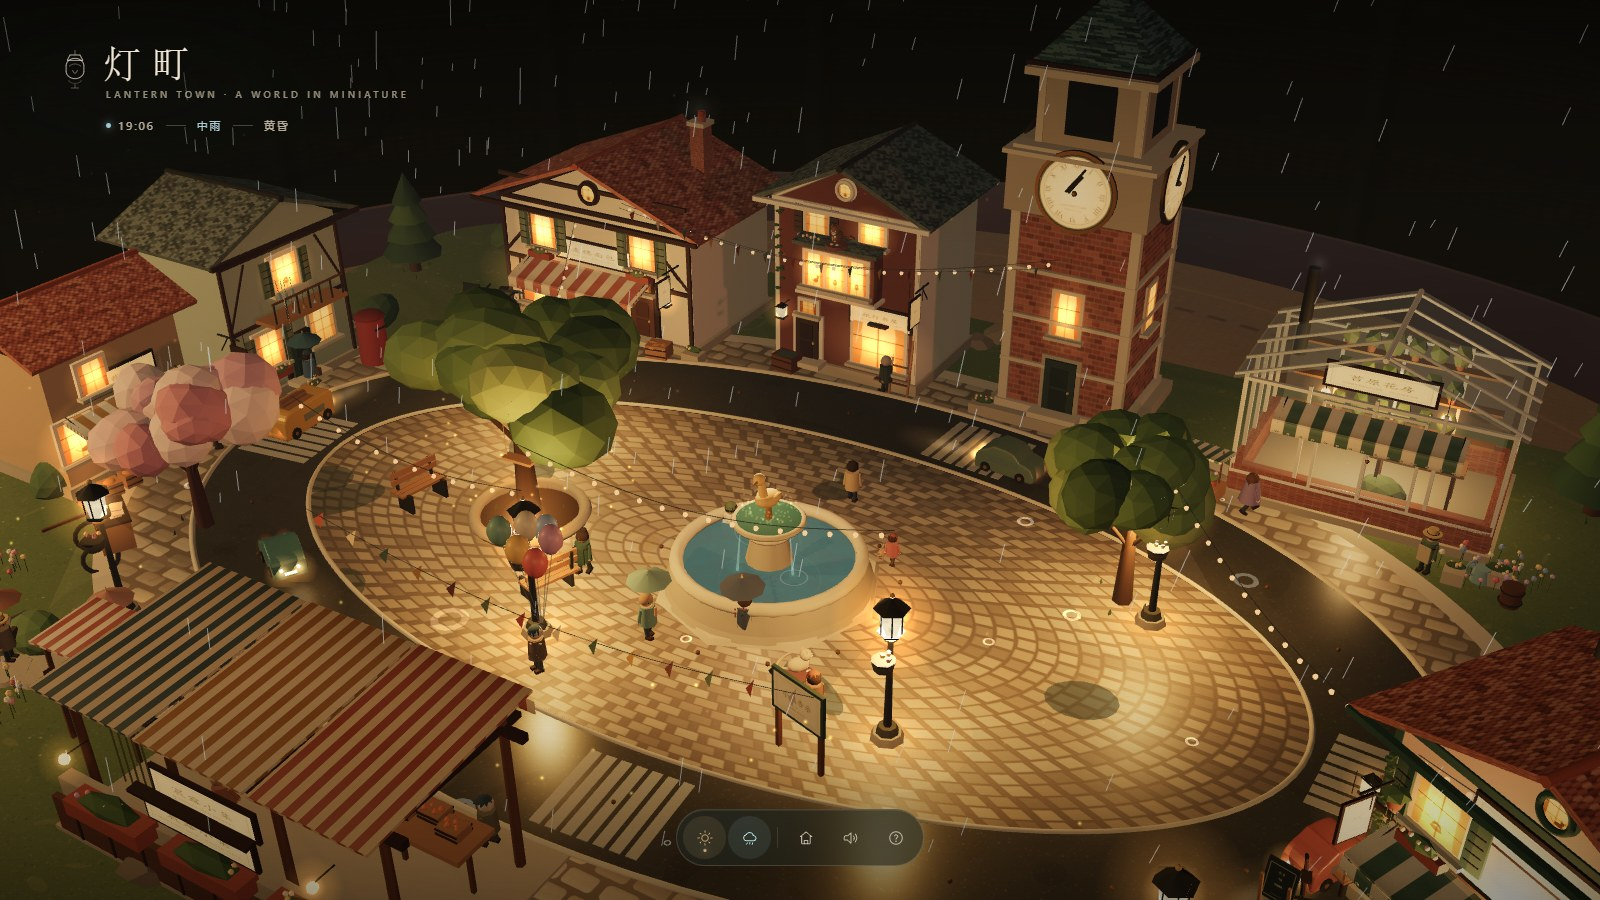
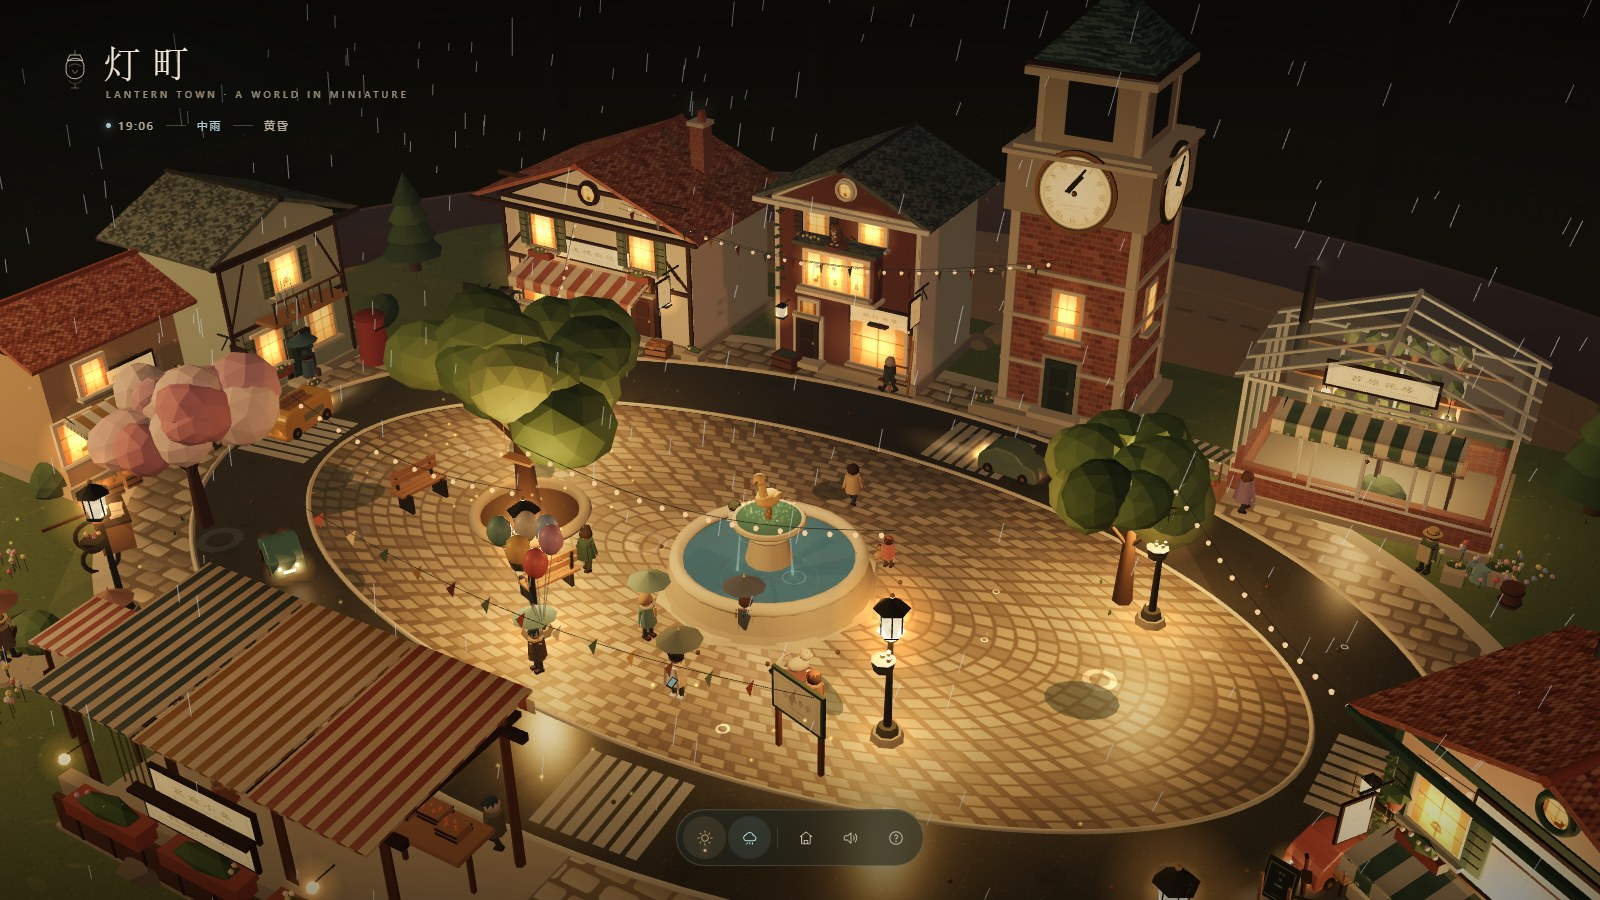
Update Lantern Town scene with new resident interaction and screenshots

diff --git a/index.html b/index.html
@@ -10,7 +10,7 @@
 <meta property="og:locale" content="zh_CN">
 <meta property="og:site_name" content="灯町 · Lantern Town">
 <meta property="og:title" content="灯町 · Lantern Town — 桌面上的小镇">
-<meta property="og:description" content="一座会自己生活 3D 微缩小镇：白天有人出门，傍晚窗灯次第亮起，下雨时行人会躲到屋檐下。">
+<meta property="og:description" content="一座会自己生活的 3D 微缩小镇：白天有人出门，傍晚窗灯次第亮起，下雨时行人会躲到屋檐下。">
 <meta property="og:image" content="screenshots/dusk.jpg">
 <meta name="twitter:card" content="summary_large_image">
 <meta name="twitter:title" content="灯町 · Lantern Town">
@@ -538,7 +538,7 @@
       <div>
         <h3>每样东西都有一点脾气</h3>
         <p>点击喷泉、钟楼、面包房、花房、路灯、汽车、树、行人和窗子，会看到它们的小反应。把鼠标停在一处，它会告诉你那是什么。</p>
-        <div class="help-react"><span>喷泉许愿</span><span>钟楼打钟</span><span>和猫打招呼</span><span>点窗灯</span><span>向行人问好</span><span>按一声车喇叭</span><span>看鸭子</span><span>闻面包香</span></div>
+        <div class="help-react"><span>喷泉许愿</span><span>钟楼打钟</span><span>和猫打招呼</span><span>点窗灯</span><span>向行人问好</span><span>请刘应豪拍照</span><span>按一声车喇叭</span><span>看鸭子</span><span>闻面包香</span></div>
       </div>
     </div>
 
@@ -5327,6 +5327,23 @@ function buildPerson(cfg) {
   }
   torso.castShadow = true;
   g.add(torso);
+  if (cfg.openShirt) {
+    const shirtMat = stdMat(cfg.shirtColor || 0xf2eee5, { roughness: .92 });
+    const tee = new THREE.Mesh(new THREE.BoxGeometry(.138, .235, .028), shirtMat);
+    tee.position.set(0, .33, .102);
+    g.add(tee);
+    // 敞开的奶油色外套：两条门襟
+    for (const side of [-1, 1]) {
+      const lapel = new THREE.Mesh(new THREE.BoxGeometry(.034, .24, .026), coatMat);
+      lapel.position.set(side * .068, .335, .114);
+      lapel.rotation.z = side * .09;
+      g.add(lapel);
+    }
+    const collar = new THREE.Mesh(new THREE.BoxGeometry(.17, .025, .06), coatMat);
+    collar.position.set(0, .445, .035);
+    collar.rotation.x = -.08;
+    g.add(collar);
+  }
   if (style === 'apron') {
     const apron = new THREE.Mesh(new THREE.BoxGeometry(.16, .22, .018), stdMat(cfg.apronColor || 0xe7d8be, { roughness: .95 }));
     apron.position.set(0, .3, .107);
@@ -5380,11 +5397,47 @@ function buildPerson(cfg) {
     bun.position.set(0, .585, -.045);
     g.add(bun);
   }
+  if (cfg.wavyHair) {
+    // 几缕微卷的深色头发，向一侧梳开
+    const tufts = [
+      [.022, .582, .061, .058, .028, .026, -.10, .18, .12],
+      [-.038, .576, .052, .048, .024, .025, -.16, -.12, -.16],
+      [.066, .552, .018, .027, .048, .032, .05, .22, .20],
+      [-.062, .551, .012, .028, .043, .030, -.04, -.18, -.22],
+      [.006, .558, -.067, .056, .045, .026, .18, 0, .08],
+      [-.010, .589, .022, .036, .027, .038, .02, .4, -.15]
+    ];
+    for (const [x, y, z, sx, sy, sz, rx, ry, rz] of tufts) {
+      const tuft = new THREE.Mesh(new THREE.SphereGeometry(1, 6, 5), hairMat);
+      tuft.scale.set(sx, sy, sz);
+      tuft.position.set(x, y, z);
+      tuft.rotation.set(rx, ry, rz);
+      g.add(tuft);
+    }
+  }
   // 脸
   for (const sx of [-1, 1]) {
     const eye = new THREE.Mesh(new THREE.SphereGeometry(.0105, 5, 4), stdMat(0x262621, { roughness: .5 }));
     eye.position.set(sx * .025, .519, .064);
     g.add(eye);
+  }
+  // 细框眼镜
+  if (cfg.glasses) {
+    const frameMat = stdMat(0x655b4c, { roughness: .42, metalness: .35 });
+    for (const side of [-1, 1]) {
+      const rim = new THREE.Mesh(new THREE.TorusGeometry(.0178, .0026, 4, 14), frameMat);
+      rim.position.set(side * .026, .518, .074);
+      g.add(rim);
+      const temple = cylinderBetween(
+        new THREE.Vector3(side * .043, .52, .065),
+        new THREE.Vector3(side * .071, .512, .002),
+        .0019, frameMat, 4
+      );
+      g.add(temple);
+    }
+    const bridge = new THREE.Mesh(new THREE.BoxGeometry(.022, .0032, .005), frameMat);
+    bridge.position.set(0, .522, .075);
+    g.add(bridge);
   }
   // 帽子
   if (cfg.hat === 'straw') {
@@ -5435,6 +5488,32 @@ function buildPerson(cfg) {
     book.position.set(.13, .27, .06);
     book.rotation.z = .2;
     g.add(book);
+  }
+  if (cfg.phone) {
+    const phone = new THREE.Group();
+    phone.position.set(0, -.195, .075);
+    phone.rotation.set(-.55, .06, .1);
+    const bodyPhone = new THREE.Mesh(
+      new THREE.BoxGeometry(.072, .12, .014),
+      stdMat(0x26272a, { roughness: .32, metalness: .3 })
+    );
+    phone.add(bodyPhone);
+    const screen = new THREE.Mesh(
+      new THREE.PlaneGeometry(.055, .095),
+      new THREE.MeshBasicMaterial({ color: 0x7d9896, toneMapped: false })
+    );
+    screen.position.z = .008;
+    phone.add(screen);
+    const phoneGlow = new THREE.Mesh(
+      new THREE.PlaneGeometry(.15, .20),
+      new THREE.MeshBasicMaterial({
+        color: 0x9dbebc, transparent: true, opacity: .035, depthWrite: false,
+        blending: THREE.AdditiveBlending, toneMapped: false
+      })
+    );
+    phoneGlow.position.z = .011;
+    phone.add(phoneGlow);
+    armR.add(phone);
   }
   if (cfg.cane) {
     const cane = new THREE.Mesh(new THREE.CylinderGeometry(.012, .016, .52, 5), MAT.woodLight);
@@ -5783,6 +5862,23 @@ buildPerson({
   skin: 2, hair: 5, scarf: 0x8f6c5a, balloons: true, activeFrom: 8.0, activeTo: 20.8,
   lines: ['挑一个吧，今天的天色配橙色很好看。', '气球想去哪里，我从来不拦着。', '从前我给孙子买过一只，后来它飞到了云上。']
 });
+// 新来的住客刘应豪：深色微卷发、细框眼镜、白 T 恤和奶油色衬衫，口头禅是“神了”
+buildPerson({
+  name: '刘应豪', role: '新来的住客', stationary: { x: .62, z: 3.08, rot: .08 },
+  speed: 0, scale: 1.04,
+  coat: 0xcbb58f, shirtColor: 0xf7f4ec, openShirt: true,
+  style: 'coat', pants: 1,
+  skin: 0, hair: 4, glasses: true, wavyHair: true, phone: true,
+  shoeMat: stdMat(0xded8cb, { roughness: .78 }),
+  hasUmbrella: true, umbrella: 0x6e7b72,
+  activeFrom: 7.5, activeTo: 25, nightOwl: true,
+  lines: [
+    '神了，刚搬来三天，已经会听钟声认时间了。',
+    '手机里存了十七张猫，还有一张晚霞。神了。',
+    '神了，这条街的屋檐，照片里根本拍不出来。',
+    '我就出来走一圈，神了，在喷泉边站了半小时。'
+  ]
+});
 
 // 固定人物的初始位置，避免贴着物台穿模
 {
@@ -5813,6 +5909,12 @@ buildPerson({
   if (balloonMan) {
     balloonMan.armR.rotation.x = -.36;
     balloonMan.armR.rotation.z = -.28;
+  }
+  const newcomer = people.find(p => p.name === '刘应豪');
+  if (newcomer) {
+    newcomer.armR.rotation.x = -1.18;
+    newcomer.armR.rotation.z = -.22;
+    newcomer.armL.rotation.x = -.12;
   }
 }
 
@@ -5867,6 +5969,10 @@ function personIdlePose(p, dt, t) {
     } else if (p.name === '气球爷爷') {
       p.armR.rotation.x = lerp(p.armR.rotation.x, -.36, dt * 6);
       p.armR.rotation.z = lerp(p.armR.rotation.z, -.28, dt * 6);
+    } else if (p.name === '刘应豪') {
+      p.armR.rotation.x = lerp(p.armR.rotation.x, -1.18, dt * 5);
+      p.armR.rotation.z = lerp(p.armR.rotation.z, -.22, dt * 5);
+      p.armL.rotation.x = lerp(p.armL.rotation.x, -.12, dt * 5);
     }
   }
   p.group.position.y = p.baseY + breathe * .004;
@@ -5911,7 +6017,7 @@ function updatePerson(p, dt, t) {
   if (WEATHER.rain > .15 && !p.rainMode && p.group.visible && !['home', 'asleep'].includes(p.state)) {
     p.rainMode = true;
     if (p.stationary) {
-      p.usingUmbrella = p.name === '小鹿' || p.name === '气球爷爷';
+      p.usingUmbrella = p.name === '小鹿' || p.name === '气球爷爷' || p.name === '刘应豪';
     } else if (p.hasUmbrella || !claimShelter(p)) {
       p.usingUmbrella = true;
       p.state = p.state === 'walk' || p.state === 'pause' ? 'walk' : p.state;
@@ -5990,6 +6096,7 @@ function updatePerson(p, dt, t) {
   }
   if (p.stationary) {
     personIdlePose(p, dt, t);
+    updateUmbrella(p, dt);
     if (p.wave > 0) { p.wave -= dt; p.armR.rotation.z = .07 + Math.sin(t * 14) * .45 - .5; }
     return;
   }
@@ -6730,6 +6837,7 @@ function setCameraPreset(name) {
     cafe: { theta: -.42, phi: 1.08, radius: 9.2, target: new THREE.Vector3(10.4, 1.2, 2.9) },
     clock: { theta: .4, phi: 1.08, radius: 12, target: new THREE.Vector3(2.2, 4.0, -7.1) },
     people: { theta: .45, phi: 1.18, radius: 3.4, target: new THREE.Vector3(2.2, .55, 2.6) },
+    newcomer: { theta: .48, phi: 1.16, radius: 3.2, target: new THREE.Vector3(.62, .55, 3.08) },
     pond: { theta: .46, phi: 1.05, radius: 12.5, target: new THREE.Vector3(-8.8, .45, 6.3) },
     cafe: { theta: -1.2, phi: 1.06, radius: 12, target: new THREE.Vector3(9.2, 1.2, 1.4) },
     north: { theta: .22, phi: 1.11, radius: 17, target: new THREE.Vector3(-1.6, 1.3, -4.4) }
@@ -7027,6 +7135,28 @@ function handleInteraction(hit) {
     }
     case 'person': {
       const p = data.person;
+      if (p.name === '刘应豪') {
+        p.pause = Math.max(p.pause, 1.2);
+        const line = pick([
+          '神了。你刚好站在光里。',
+          '这里的黄昏根本不用滤镜。神了。',
+          '神了，我拍到了喷泉，也拍到了你。',
+          '这张得留起来。神了。'
+        ]);
+        showBubble(p.group, data, line, {
+          who: p.name, sub: 'SNAPSHOT', duration: 5.2
+        });
+        const pos = p.group.position.clone();
+        pos.y += .48;
+        pos.x += .16;
+        spawnParticles({
+          pos, map: TEX_GLOW, color: 0xfff3d8, count: 8,
+          spread: .12, spreadY: .08, speed: .22, up: .25,
+          size: .23, life: .55, gravity: 0
+        });
+        Audio.playShutter();
+        break;
+      }
       wavePerson(p);
       const lines = personLines(p);
       const line = lines[Math.floor(Math.random() * lines.length)];
@@ -8130,6 +8260,25 @@ const Audio = {
       src.connect(f); f.connect(g); this.output(g);
       src.start(t); src.stop(t + .08);
     }
+  },
+  playShutter() {
+    if (!this.ctx || this.muted) return;
+    const t = this.ctx.currentTime;
+    // 一声轻快的机械咔嗒
+    const o = this.ctx.createOscillator(), og = this.ctx.createGain();
+    o.type = 'square'; o.frequency.setValueAtTime(1800, t);
+    o.frequency.exponentialRampToValueAtTime(420, t + .06);
+    og.gain.setValueAtTime(.012, t);
+    og.gain.exponentialRampToValueAtTime(.0002, t + .08);
+    o.connect(og); this.output(og); o.start(t); o.stop(t + .09);
+    // 快门帘的一小口气
+    const src = this.ctx.createBufferSource(); src.buffer = this.noiseBuffer;
+    const g = this.ctx.createGain(); const f = this.ctx.createBiquadFilter();
+    f.type = 'highpass'; f.frequency.value = 1900;
+    g.gain.setValueAtTime(.035, t + .015);
+    g.gain.exponentialRampToValueAtTime(.0002, t + .14);
+    src.connect(f); f.connect(g); this.output(g);
+    src.start(t + .015); src.stop(t + .16);
   },
   playHorn() {
     if (!this.ctx || this.muted) return;

diff --git a/README.md b/README.md
@@ -14,12 +14,12 @@
 - **一天会过去。** 午后、金色时刻、黄昏、入夜、清晨，光线和房间的颜色都会慢慢变化。
 - **傍晚点灯。** 入夜前后，镇上三十多扇窗会错落地亮起来；街灯、店招、串灯和路灯也陆续醒来。钟楼会在 18:00 和 6:00 敲钟。
 - **天气会自己来。** 进入后大约 50 秒会迎来第一场雨，也可以在底栏随时呼风唤雨。有人撑伞，有人快步躲进面包房、书屋、咖啡店、花房和集市的屋檐下；雨停后各自回到街上。
-- **镇上有人。** 22 位居民各有作息和路线：面包师、书店主人、花房姑娘、邮差、小孩、夜归人，以及在喷泉边弹吉他的街头乐手、卖气球的爷爷。入夜后街灯和萤火虫接管小镇。
+- **镇上有人。** 23 位居民各有作息和路线：面包师、书店主人、花房姑娘、邮差、小孩、夜归人，以及在喷泉边弹吉他的街头乐手、卖气球的爷爷。喷泉南侧还站着新搬来的住客刘应豪——深色微卷发、细框眼镜，白 T 恤外面套着奶油色衬衫，总在低头看手机，说话爱带一句「神了」。入夜后街灯和萤火虫接管小镇。
 - **细节在呼吸。** 汽车沿环路穿行，猫在屋顶伸懒腰，鸭子在池塘里绕圈，鸽子在广场上啄食。烟囱会冒烟，咖啡会冒热气，晾衣绳、树冠、风铃和气球都在轻轻动。
 
 ## 可以点一点
 
-喷泉会收下一枚硬币并回你一个愿望；钟楼会打钟；面包房的烟囱会喷一团烟；书屋里会飞起纸页；花房会落下一阵花瓣；路灯会亮起来；汽车会按喇叭；树会抖下一阵叶子；窗子可以一扇扇点亮；猫会跳起来，鸭子会嘎嘎叫，行人会朝你挥手，气球爷爷会和你说话。
+喷泉会收下一枚硬币并回你一个愿望；钟楼会打钟；面包房的烟囱会喷一团烟；书屋里会飞起纸页；花房会落下一阵花瓣；路灯会亮起来；汽车会按喇叭；树会抖下一阵叶子；窗子可以一扇扇点亮；猫会跳起来，鸭子会嘎嘎叫，行人会朝你挥手，气球爷爷会和你说话。点一下刘应豪，他会替你拍一张快照，然后说：「神了。」
 
 把鼠标停在一处，它会告诉你可以点什么。双击任何一样东西，镜头会轻轻落到它面前。
 

diff --git a/UPLOAD.md b/UPLOAD.md
@@ -61,6 +61,7 @@ git push -u origin main
 - [ ] 仓库根目录能看到 `index.html`。
 - [ ] Pages 地址返回 200，页面显示「灯町」开场页。
 - [ ] 点击「推门进去」能进入小镇，场景可见。
+- [ ] 点击喷泉，会出现气泡；点击喷泉南侧穿奶油色衬衫的刘应豪，会触发拍照互动和「神了」的台词。
 - [ ] 按住拖动可以转动，滚轮/双指可以靠近，点击喷泉会出现气泡。
 - [ ] `R` 或底栏云朵能唤雨，街道和行人会进入雨天的状态。
 - [ ] 在手机尺寸下页面不横向溢出，底栏按钮可用。
